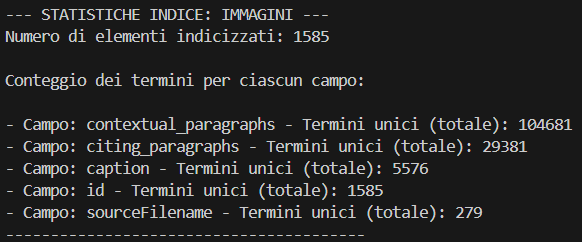
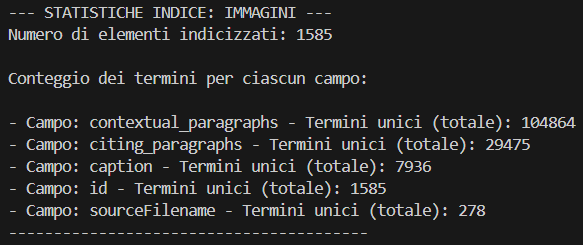
refix

Changed region(s): [[0.0, 0.4628, 0.9897, 0.9835], [0.0, 0.0289, 0.5876, 0.1736], [0.0, 0.2893, 0.6495, 0.376]]

diff --git a/lucene/src/main/java/it/uniroma3/idd/controller/SearchController.java b/lucene/src/main/java/it/uniroma3/idd/controller/SearchController.java
@@ -85,6 +85,69 @@ public class SearchController {
     }
 
 
+    @GetMapping("/view/{fileName:.+}")
+    public String viewArticle(@PathVariable String fileName, Model model) {
+        try {
+            Path filePath = Paths.get(luceneConfig.getArticlesPath()).resolve(fileName).normalize();
+            File file = filePath.toFile();
+            
+            if (!file.exists()) {
+                model.addAttribute("error", "File non trovato: " + fileName);
+                return "index";
+            }
+
+            Document document = Jsoup.parse(file, "UTF-8");
+            
+            // Extract fields using the same logic as Parser.java
+            String title = document.select("article-title").first() != null ? document.select("article-title").first().text() : "No Title Found";
+            
+            List<String> authors = new ArrayList<>();
+            document.select("contrib[contrib-type=author] name").forEach(nameElement -> {
+                String surname = nameElement.select("surname").text();
+                String givenNames = nameElement.select("given-names").text();
+                authors.add(givenNames + " " + surname);
+            });
+            
+            String articleAbstract = document.select("abstract p").first() != null ? document.select("abstract p").text() : "No Abstract Found";
+            
+            // Date extraction
+            String publicationDate = "Unknown Date";
+            org.jsoup.nodes.Element pubDateElement = document.select("pub-date").first();
+            if (pubDateElement != null) {
+                String year = pubDateElement.select("year").text();
+                String month = pubDateElement.select("month").text();
+                String day = pubDateElement.select("day").text();
+                
+                if (!year.isEmpty()) {
+                    publicationDate = year;
+                    if (!month.isEmpty()) {
+                        publicationDate += "-" + (month.length() == 1 ? "0" + month : month);
+                        if (!day.isEmpty()) {
+                            publicationDate += "-" + (day.length() == 1 ? "0" + day : day);
+                        }
+                    }
+                }
+            }
+
+            List<String> paragraphs = new ArrayList<>();
+            document.select("body p").forEach(paragraph -> paragraphs.add(paragraph.text()));
+
+            model.addAttribute("fileName", fileName);
+            model.addAttribute("title", title);
+            model.addAttribute("authors", authors);
+            model.addAttribute("articleAbstract", articleAbstract);
+            model.addAttribute("publicationDate", publicationDate);
+            model.addAttribute("paragraphs", paragraphs);
+            
+            return "article";
+
+        } catch (Exception e) {
+            model.addAttribute("error", "Errore durante la lettura del file: " + e.getMessage());
+            return "index";
+        }
+    }
+
+
     @GetMapping("/file/{fileName:.+}")
     @ResponseBody
     public org.springframework.core.io.Resource serveFile(@PathVariable String fileName) {

diff --git a/lucene/src/main/java/it/uniroma3/idd/service/Searcher.java b/lucene/src/main/java/it/uniroma3/idd/service/Searcher.java
@@ -55,6 +55,76 @@ public class Searcher {
     }
 
 
+    @PostConstruct
+    public void init()throws IOException {
+        System.out.println("Inizializzazione searcher");
+
+        for (Map.Entry<String, String> entry : indexPaths.entrySet()) {
+            String indexKey = entry.getKey();
+            String path = entry.getValue();
+            
+            try {
+                DirectoryReader reader = DirectoryReader.open(FSDirectory.open(Paths.get(path)));
+                IndexSearcher searcher = new IndexSearcher(reader);
+                
+                readerMap.put(indexKey, reader);
+                searcherMap.put(indexKey, searcher);
+                System.out.println("-> Caricato indice: " + indexKey + " da: " + path);
+            } catch (IOException e) {
+                System.err.println("Errore nel caricamento dell'indice '" + indexKey + "' dal percorso: " + path + ". " + e.getMessage());
+            }
+        }
+    }
+
+
+    @PreDestroy
+    public void destroy() {
+        System.out.println("Chiusura di tutti i DirectoryReader...");
+        for (DirectoryReader reader : readerMap.values()) {
+            try {
+                reader.close();
+            } catch (IOException e) {
+                System.err.println("Errore durante la chiusura del reader: " + e.getMessage());
+            }
+        }
+    }
+
+
+    @EventListener
+    public void onIndexingComplete(IndexingCompleteEvent event) {
+        System.out.println("Ricaricamento indici dopo indicizzazione...");
+        
+        // Chiudi prima i reader esistenti
+        for (DirectoryReader reader : readerMap.values()) {
+            try {
+                reader.close();
+            } catch (IOException e) {
+                System.err.println("Errore durante la chiusura del reader: " + e.getMessage());
+            }
+        }
+        readerMap.clear();
+        searcherMap.clear();
+        
+        // Ricarica gli indici
+        for (Map.Entry<String, String> entry : indexPaths.entrySet()) {
+            String indexKey = entry.getKey();
+            String path = entry.getValue();
+            
+            try {
+                DirectoryReader reader = DirectoryReader.open(FSDirectory.open(Paths.get(path)));
+                IndexSearcher searcher = new IndexSearcher(reader);
+                
+                readerMap.put(indexKey, reader);
+                searcherMap.put(indexKey, searcher);
+                System.out.println("-> Ricaricato indice: " + indexKey + " da: " + path + " (docs: " + reader.numDocs() + ")");
+            } catch (IOException e) {
+                System.err.println("Errore nel ricaricamento dell'indice '" + indexKey + "': " + e.getMessage());
+            }
+        }
+        System.out.println("Indici ricaricati con successo!");
+    }
+
+
     // ===== UTILS ======
     public void evaluateAndPrintPerQuery(String queryText, List<SearchResult> results, String indice, int k) {
         Map<String, Integer> relevanceMap = new HashMap<>();

diff --git a/lucene/src/main/java/it/uniroma3/idd/config/LuceneConfig.java b/lucene/src/main/java/it/uniroma3/idd/config/LuceneConfig.java
@@ -84,20 +84,6 @@ public class LuceneConfig {
         perFieldAnalyzers.put("paragraphs", standard);
         perFieldAnalyzers.put("articleAbstract", standard);
 
-        // Tables
-        perFieldAnalyzers.put("caption", simple);
-        perFieldAnalyzers.put("body", whitespace);
-        perFieldAnalyzers.put("mentions", standard);
-        perFieldAnalyzers.put("context_paragraphs", standard);
-
-        // Images
-        perFieldAnalyzers.put("alt", simple);
-        perFieldAnalyzers.put("src", simple);
-        perFieldAnalyzers.put("mentions", standard);
-        perFieldAnalyzers.put("context_paragraphs", standard);
-        perFieldAnalyzers.put("saved_path", simple);
-        perFieldAnalyzers.put("fileName", simple);
-
         return new PerFieldAnalyzerWrapper(customAnalyzer(), perFieldAnalyzers);
     }
 }

diff --git a/lucene/src/main/java/it/uniroma3/idd/utils/Parser.java b/lucene/src/main/java/it/uniroma3/idd/utils/Parser.java
@@ -212,9 +212,6 @@ public class Parser {
         System.out.println("Articles directory absolute path: " + dir.getAbsolutePath());
         System.out.println("Number of files in the directory: " + files.length);
 
-        for (File f : files) {
-            System.out.println(" - found file: " + f.getName());
-        }
         List<Article> articles = new ArrayList<>();
 
         for (File file : files) {

diff --git a/lucene/src/main/java/it/uniroma3/idd/service/LuceneIndexer.java b/lucene/src/main/java/it/uniroma3/idd/service/LuceneIndexer.java
@@ -113,7 +113,6 @@ public class LuceneIndexer {
             doc.add(new StringField("publicationDate", article.getPublicationDate(), Field.Store.YES));
             writer.addDocument(doc);
         }
-
         writer.commit();
         writer.close();
     }
